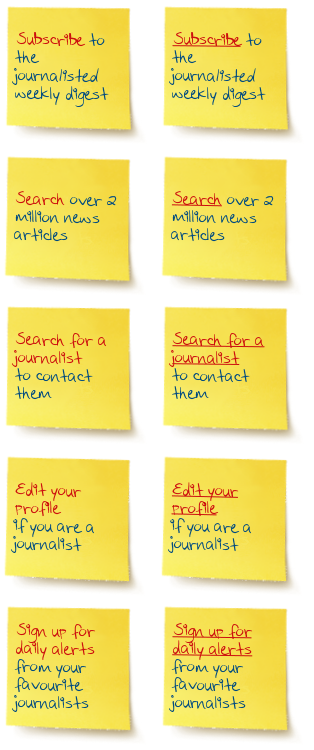
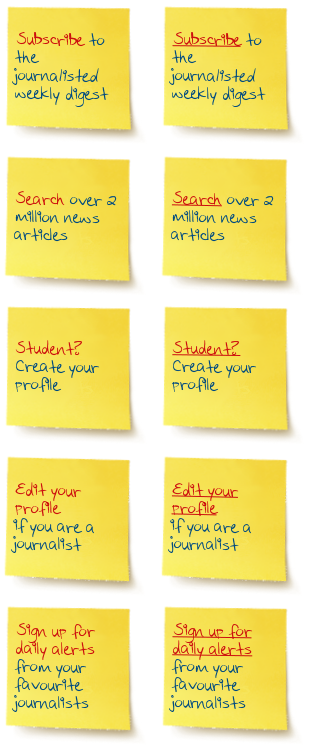
replace search-journos postit with student postit

Changed region(s): [[0.5446, 0.4293, 0.8312, 0.552], [0.0287, 0.4293, 0.2866, 0.552], [0.3153, 0.4293, 0.3439, 0.46]]

diff --git a/jl/web/style.css b/jl/web/style.css
@@ -843,7 +843,7 @@ ul.newList li a:focus {-moz-outline-style: none;}
 .box.front .nav a.subscribe { left: 340px; top: 11px; } 
 .box.front .nav a.edit-profile { left: 125px; top: 125px; }
 .box.front .nav a.search-articles { left: 510px; top: 127px; }
-.box.front .nav a.search-journos { left: 680px; top: 30px; }
+.box.front .nav a.create-your-profile { left: 680px; top: 30px; }
 .box.front .nav a.alerts { left: 815px; top: 120px; }
 
 /* (autogenerated by gen_postits) */
@@ -851,8 +851,8 @@ ul.newList li a:focus {-moz-outline-style: none;}
 .box.front .nav a.subscribe:hover { background-position: -157px 0px; }
 .box.front .nav a.search-articles { background-position: 0px -150px; }
 .box.front .nav a.search-articles:hover { background-position: -157px -150px; }
-.box.front .nav a.search-journos { background-position: 0px -300px; }
-.box.front .nav a.search-journos:hover { background-position: -157px -300px; }
+.box.front .nav a.create-your-profile { background-position: 0px -300px; }
+.box.front .nav a.create-your-profile:hover { background-position: -157px -300px; }
 .box.front .nav a.edit-profile { background-position: 0px -450px; }
 .box.front .nav a.edit-profile:hover { background-position: -157px -450px; }
 .box.front .nav a.alerts { background-position: 0px -600px; }

diff --git a/jl/web/ie/ie.css b/jl/web/ie/ie.css
@@ -152,7 +152,7 @@ ul {
 .front .nav a.subscribe { left: 341px; top: 1px; } 
 .front .nav a.edit-profile { left: 111px; top: 115px; }
 .front .nav a.search-articles { left: 510px; top: 127px; }
-.front .nav a.search-journos { left: 640px; top: 54px; }
+.front .nav a.create-your-profile { left: 640px; top: 54px; }
 .front .nav a.alerts { left: 822px; top: 110px; }
 
 

diff --git a/jl/templates/frontpage.tpl.php b/jl/templates/frontpage.tpl.php
@@ -26,7 +26,7 @@
    <li><a class="subscribe" href="/weeklydigest">Subscribe to the journa<i>listed</i> weekly digest</a></li>
    <li><a class="edit-profile" href="/profile">edit profile</a></li>
    <li><a class="search-articles" href="/search?type=article">search articles</a></li>
-   <li><a class="search-journos" href="/search?type=journo">search for journalists</a></li>
+   <li><a class="create-your-profile" href="/student">Student? Create your profile</a></li>
    <li><a class="alerts" href="/alert">alerts</a></li>
   </ul>
  </div>
